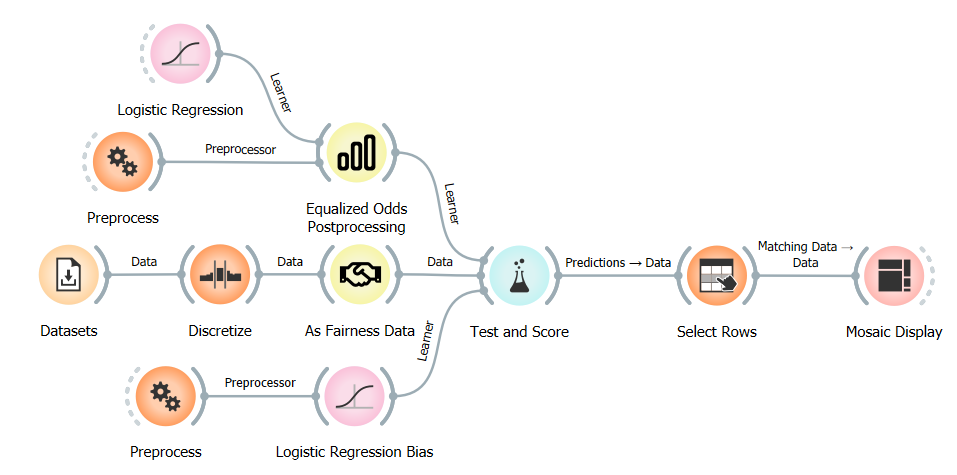
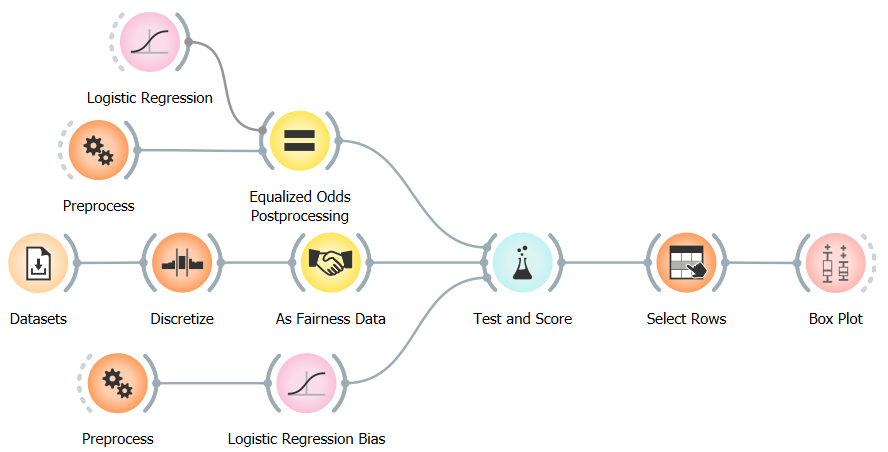
Fairness Equal-Odds-Postprocessing blog fix

diff --git a/public/blog/2023-09-fairness-equal-odds-postprocessing/2023-09-19-fairness-equal-odds-postprocessing.md b/public/blog/2023-09-fairness-equal-odds-postprocessing/2023-09-19-fairness-equal-odds-postprocessing.md
@@ -54,13 +54,13 @@ We can also see that the model's accuracy using the Equal Odds Postprocessing wi
 
 When using the Equal Odds Postprocessing, it is worth noting that the AUC value is not an accurate representation of the model's performance. This is because the Equal Odds Postprocessing algorithm changes only the predictions of the model, not the prediction probabilities. This means the AUC value would be calculated from the original model's prediction probabilities, not the adjusted ones. We have decided to alter the prediction probabilities when using the Equal Odds Postprocessing widget to 1 if the prediction is of the positive class and 0 otherwise. This is done to ensure that the AUC value is calculated from the adjusted predictions, which is a more accurate representation of the model's performance but still not a perfect one.
 
-Next, let us look at the mosaic display widget. We will use it to show the True Positive Rate for each group and thus the Equal Opportunity Difference metric, which is the difference of the True Positive Rates between unprivileged and privileged groups. To do this, we first had to use the Select Rows widget to keep only the instances with a positive class because we are not interested in the True Negative Rate. This was the result:
+Next, let us look at the box-plot widget. We will use it to show the True Positive Rate for each group and thus the Equal Opportunity Difference metric, which is the difference of the True Positive Rates between unprivileged and privileged groups. To do this, we first had to use the Select Rows widget to keep only the instances with a positive class because we are not interested in the True/False Negative Rate. This was the result:
     
-<WindowScreenshot src="2023-09-19-fairness-equal-odds-postprocessing-mosaic-bias.png" />
+<WindowScreenshot src="2023-09-19-fairness-equal-odds-postprocessing-box-plot-bias.png" />
 
-<WindowScreenshot src="2023-09-19-fairness-equal-odds-postprocessing-mosaic-debias.png" />
+<WindowScreenshot src="2023-09-19-fairness-equal-odds-postprocessing-box-plot-debias.png" />
 
-In the visualizations, each column's red and blue parts represent the true positive and false negative rates, respectively, for each group. You can ignore the width of the columns as that represents the number of instances in each group, which is irrelevant to us. 
+In the visualizations, each rows's red and blue parts represent the true positive and false negative rates, respectively, for each group.
 
 In the first visualization, which represents predictions from the model without debiasing, we can see that the privileged group (≥ 26) has a higher True Positive Rate than the unprivileged group (< 26). This can be considered unfair towards the unprivileged group because it means a loan candidate from the unprivileged group is more likely to be falsely rejected, because of the higher false negative rate, than a loan candidate from the privileged group.
 
